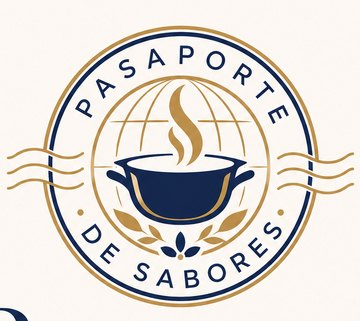
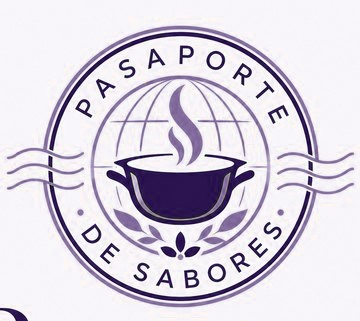
Add files via upload

diff --git a/pasaporte.html b/pasaporte.html
@@ -49,9 +49,9 @@
   .top-logo{height:38px;width:38px;border-radius:50%;object-fit:cover;background:#0A0812;border:1.5px solid rgba(139,92,246,.6);display:block;box-shadow:0 2px 8px rgba(0,0,0,.16)}
 
   /* ---------- Portada ---------- */
-  .cover{background:linear-gradient(160deg,#22335A 0%,var(--metal) 55%,#15213B 100%);border-radius:26px;padding:30px 24px 32px;color:#F2ECDD;text-align:center;box-shadow:var(--shadow);position:relative;overflow:hidden;margin-top:6px}
+  .cover{background:linear-gradient(160deg,#2E1C55 0%,var(--metal) 55%,#180F2E 100%);border-radius:26px;padding:30px 24px 32px;color:#F5F3FA;text-align:center;box-shadow:var(--shadow);position:relative;overflow:hidden;margin-top:6px}
   .cover::before{content:"";position:absolute;inset:10px;border:1.5px solid rgba(139,92,246,.5);border-radius:20px;pointer-events:none}
-  .cover-logo{width:168px;height:168px;max-width:60%;aspect-ratio:1/1;border-radius:50%;object-fit:cover;background:#0A0812;display:block;margin:0 auto 18px;border:3px solid rgba(139,92,246,.75);box-shadow:0 10px 30px rgba(0,0,0,.32),inset 0 0 0 5px #FFFDF7}
+  .cover-logo{width:168px;height:168px;max-width:60%;aspect-ratio:1/1;border-radius:50%;object-fit:cover;background:#0A0812;display:block;margin:0 auto 18px;border:3px solid rgba(139,92,246,.75);box-shadow:0 10px 30px rgba(0,0,0,.32),inset 0 0 0 5px #EDE7FA}
   .cover h1{font-family:'Inter Tight',sans-serif;font-size:clamp(26px,7vw,34px);letter-spacing:-.02em;line-height:1.06}
   .cover .motto{font-family:'Fraunces',serif;font-style:italic;font-size:15.5px;color:#C4B5E8;margin-top:12px;line-height:1.5}
   .cover .season{display:inline-block;margin-top:16px;font-size:11.5px;letter-spacing:.14em;text-transform:uppercase;color:#B8A87E;border:1px solid rgba(139,92,246,.5);border-radius:999px;padding:7px 14px}
@@ -72,7 +72,7 @@
   .how h2{font-family:'Inter Tight',sans-serif;font-size:17px;margin-bottom:12px}
   .how ol{list-style:none}
   .how li{display:flex;gap:12px;padding:9px 0;font-size:14px;line-height:1.5;color:#C7C2DC}
-  .how .n{flex:0 0 26px;height:26px;border-radius:50%;background:var(--metal);color:#F2ECDD;display:inline-flex;align-items:center;justify-content:center;font-weight:700;font-size:12.5px}
+  .how .n{flex:0 0 26px;height:26px;border-radius:50%;background:var(--metal);color:#F5F3FA;display:inline-flex;align-items:center;justify-content:center;font-weight:700;font-size:12.5px}
 
   /* ---------- Formularios ---------- */
   .form-card{background:var(--card);border:1px solid var(--hairline);border-radius:22px;padding:24px;box-shadow:var(--shadow);margin-top:10px}
@@ -89,7 +89,7 @@
   .err.show{display:block}
 
   /* ---------- Pasaporte ---------- */
-  .pass-head{background:linear-gradient(160deg,#22335A,var(--metal));border-radius:22px;padding:20px;color:#F2ECDD;box-shadow:var(--shadow);margin-top:6px}
+  .pass-head{background:linear-gradient(160deg,#2E1C55,var(--metal));border-radius:22px;padding:20px;color:#F5F3FA;box-shadow:var(--shadow);margin-top:6px}
   .pass-head .who{display:flex;justify-content:space-between;align-items:center;gap:10px}
   .pass-head .name{font-family:'Inter Tight',sans-serif;font-size:19px;letter-spacing:-.01em}
   .pass-head .city{font-size:12.5px;color:#C0B7DC;margin-top:2px}
@@ -97,7 +97,7 @@
   .prog-wrap{margin-top:16px}
   .prog-top{display:flex;justify-content:space-between;font-size:12.5px;color:#C4B5E8;margin-bottom:7px}
   .prog{height:10px;background:rgba(255,255,255,.18);border-radius:999px;overflow:hidden}
-  .prog-fill{height:100%;background:linear-gradient(90deg,var(--gold),#D2B279);border-radius:999px;transition:width .6s var(--ease)}
+  .prog-fill{height:100%;background:linear-gradient(90deg,var(--gold),#C9A9FF);border-radius:999px;transition:width .6s var(--ease)}
   .grid{display:grid;grid-template-columns:1fr 1fr;gap:12px;margin-top:16px}
   .country{background:var(--card);border:1px solid var(--hairline);border-radius:18px;padding:14px 12px;text-align:center;cursor:pointer;box-shadow:var(--shadow);border-bottom:3px solid var(--hairline);transition:transform .15s var(--ease)}
   .country:active{transform:scale(.97)}
@@ -139,7 +139,7 @@
   .steps{list-style:none}
   .steps li{display:flex;gap:12px;padding:11px 0;border-bottom:1px solid var(--hairline)}
   .steps li:last-child{border-bottom:0}
-  .stp{flex:0 0 27px;height:27px;border-radius:50%;background:var(--metal);color:#F2ECDD;display:inline-flex;align-items:center;justify-content:center;font-weight:700;font-size:13px}
+  .stp{flex:0 0 27px;height:27px;border-radius:50%;background:var(--metal);color:#F5F3FA;display:inline-flex;align-items:center;justify-content:center;font-weight:700;font-size:13px}
   .steps p{font-size:14.5px;line-height:1.6;padding-top:2px}
   .tipbox{background:rgba(139,92,246,.14);border:1px solid rgba(196,167,255,.22);border-radius:15px;padding:14px 16px;margin-top:13px}
   .tipbox .t{font-weight:700;font-size:13px;color:var(--gold-text);margin-bottom:4px}
@@ -161,7 +161,7 @@
   /* ---------- Overlay sello ---------- */
   .stamp-ov{position:fixed;inset:0;background:rgba(0,0,0,.82);display:none;align-items:center;justify-content:center;z-index:70;padding:20px;overflow:auto}
   .stamp-ov.open{display:flex}
-  .stamp-box{text-align:center;color:#F2ECDD;max-width:400px;width:100%}
+  .stamp-box{text-align:center;color:#F5F3FA;max-width:400px;width:100%}
   .shot-wrap{position:relative;width:230px;margin:0 auto;animation:stampIn .55s var(--ease)}
   .shot-wrap img{width:100%;aspect-ratio:1/1;object-fit:cover;border-radius:20px;display:block;box-shadow:0 12px 34px rgba(0,0,0,.4)}
   .shot-wrap svg{position:absolute;right:-16px;bottom:-16px;width:104px;height:104px}
@@ -190,9 +190,9 @@
   .rw h3{font-size:15px}
   .rw p{font-size:12.5px;color:var(--stone);margin-top:3px;line-height:1.45}
   .rw.locked{opacity:.62}
-  .gift{background:linear-gradient(160deg,#22335A,#15213B);border-radius:22px;padding:26px 22px;color:#F2ECDD;text-align:center;box-shadow:var(--shadow);margin-top:10px;position:relative;overflow:hidden}
+  .gift{background:linear-gradient(160deg,#2E1C55,#180F2E);border-radius:22px;padding:26px 22px;color:#F5F3FA;text-align:center;box-shadow:var(--shadow);margin-top:10px;position:relative;overflow:hidden}
   .gift::before{content:"";position:absolute;inset:9px;border:1.5px solid rgba(139,92,246,.45);border-radius:16px;pointer-events:none}
-  .gift img{width:120px;height:120px;border-radius:50%;object-fit:cover;background:#0A0812;border:3px solid rgba(139,92,246,.7);margin:0 auto 14px;display:block;box-shadow:inset 0 0 0 4px #FFFDF7}
+  .gift img{width:120px;height:120px;border-radius:50%;object-fit:cover;background:#0A0812;border:3px solid rgba(139,92,246,.7);margin:0 auto 14px;display:block;box-shadow:inset 0 0 0 4px #EDE7FA}
   .gift h2{font-family:'Inter Tight',sans-serif;font-size:22px;letter-spacing:-.02em}
   .gift p{font-size:14px;color:#C0B7DC;margin-top:10px;line-height:1.6}
   .gift .prog{margin-top:16px;background:rgba(255,255,255,.18)}
@@ -218,7 +218,7 @@
   .loading{display:flex;align-items:center;justify-content:center;gap:10px;padding:60px 0;color:var(--stone);font-size:14px}
   .spin{width:20px;height:20px;border:2.5px solid var(--hairline);border-top-color:var(--gold);border-radius:50%;animation:sp 1s linear infinite}
   @keyframes sp{to{transform:rotate(360deg)}}
-  .toast{position:fixed;bottom:22px;left:50%;transform:translateX(-50%);background:var(--metal);color:#F2ECDD;border-radius:999px;padding:12px 22px;font-size:13.5px;font-weight:600;z-index:90;display:none;max-width:88%;text-align:center}
+  .toast{position:fixed;bottom:22px;left:50%;transform:translateX(-50%);background:var(--metal);color:#F5F3FA;border-radius:999px;padding:12px 22px;font-size:13.5px;font-weight:600;z-index:90;display:none;max-width:88%;text-align:center}
   .toast.show{display:block}
   .legal-foot{margin-top:24px;text-align:center;font-size:12px;color:#8E88A6;line-height:1.6}
   .legal-foot a{color:var(--gold-text)}
@@ -416,11 +416,11 @@
       <svg viewBox="0 0 200 200" fill="none" id="stampSvg"></svg>
       <svg class="stamp-hand" viewBox="0 0 120 120" fill="none" aria-hidden="true">
         <!-- Mango del sello -->
-        <rect x="49" y="6" width="22" height="30" rx="7" fill="#7A2E3B"/>
-        <rect x="41" y="30" width="38" height="15" rx="6" fill="#B08D4F"/>
-        <rect x="52" y="43" width="16" height="20" fill="#8A672B"/>
+        <rect x="49" y="6" width="22" height="30" rx="7" fill="#7A2E5E"/>
+        <rect x="41" y="30" width="38" height="15" rx="6" fill="#9B6BF5"/>
+        <rect x="52" y="43" width="16" height="20" fill="#6D28D9"/>
         <!-- Base del sello -->
-        <rect x="36" y="60" width="48" height="16" rx="5" fill="#1B2A4A"/>
+        <rect x="36" y="60" width="48" height="16" rx="5" fill="#241640"/>
         <!-- Mano que sujeta -->
         <path d="M30 66c-6 0-11 5-11 11v10c0 12 10 22 23 22h20c12 0 21-9 21-21V70c0-4-3-7-7-7s-7 3-7 7v-3c0-4-3-7-7-7s-7 3-7 7v-1c0-4-3-7-7-7s-7 3-7 7v2c0-4-3-8-7-8Z" fill="#E8C9A6"/>
         <path d="M30 66c-6 0-11 5-11 11v10c0 12 10 22 23 22h20c12 0 21-9 21-21V70" stroke="#C9A483" stroke-width="2" fill="none"/>
@@ -429,7 +429,7 @@
     <h3 id="stampTitle">&iexcl;Sello estampado!</h3>
     <p id="stampSub"></p>
     <button class="btn btn-gold" id="stampOk" type="button">Continuar mi viaje</button>
-    <button class="btn btn-line" id="stampShare" type="button" style="margin-top:9px;background:transparent;color:#F2ECDD;border-color:rgba(255,255,255,.4)">Compartir mi foto</button>
+    <button class="btn btn-line" id="stampShare" type="button" style="margin-top:9px;background:transparent;color:#F5F3FA;border-color:rgba(255,255,255,.4)">Compartir mi foto</button>
   </div>
 </div>
 
@@ -466,7 +466,7 @@ const COUNTRIES = [
    ings:[["Harina de maíz","3 tazas"],["Agua tibia","2 tazas y media"],["Queso que derrita, rallado","2 tazas"],["Frijoles molidos refritos","1 taza"],["Repollo rallado","2 tazas"],["Zanahoria rallada","1 pieza"],["Vinagre blanco","media taza"],["Orégano","1 cdta"],["Sal","al gusto"]],
    steps:["Prepara el curtido: mezcla repollo, zanahoria, vinagre, orégano y sal; deja reposar mientras cocinas (mejor si es desde la víspera).","Mezcla la harina con agua y sal hasta lograr una masa manejable.","Toma una bola de masa, haz un hueco, rellena con queso y frijoles, y cierra con cuidado.","Aplana con las palmas humedecidas hasta formar una tortilla gruesa.","Cocina en sartén o comal a fuego medio, 4 a 5 minutos por lado, hasta dorar.","Sirve calientes con el curtido encima."],
    tip:"La temperatura constante del sartén es clave: si el calor sube y baja, la pupusa se abre. Un fondo grueso mantiene el punto." },
- { id:"hn", img:"foto-pollo-tajadas.jpg", co:"Honduras", mono:"HN", color:"#2E6FA3", dish:"Pollo con tajadas", stamp:"Sazón Catracha",
+ { id:"hn", img:"foto-pollo-tajadas.jpg", co:"Honduras", mono:"HN", color:"#7C5BD9", dish:"Pollo con tajadas", stamp:"Sazón Catracha",
    time:"45 min", serv:"4 porciones", diff:"Media",
    ings:[["Piezas de pollo","8 piezas"],["Plátanos verdes","3 piezas"],["Repollo rallado","2 tazas"],["Jitomate","2 piezas"],["Limón","1 pieza"],["Ajo en polvo y comino","1 cdta de cada uno"],["Aceite para freír","el necesario"],["Sal","al gusto"]],
    steps:["Sazona el pollo con ajo, comino y sal; cocínalo hasta dorar por fuera y quedar suave por dentro.","Corta los plátanos verdes en tajadas largas y delgadas.","Fríe las tajadas hasta que estén doradas y crujientes; escúrrelas.","Prepara la ensalada: repollo, jitomate picado, limón y sal.","Sirve las tajadas como base, el pollo encima y corona con la ensalada fresca."],
@@ -756,7 +756,7 @@ $('cmYes').addEventListener('click', async ()=>{
 function showStamp(c, n, ph){
   $('stampShot').src = ph;
   $('stampSvg').innerHTML =
-    '<circle cx="100" cy="100" r="88" stroke="'+c.color+'" stroke-width="6" fill="#FFFDF7" fill-opacity=".93"/>'+
+    '<circle cx="100" cy="100" r="88" stroke="'+c.color+'" stroke-width="6" fill="#EDE7FA" fill-opacity=".93"/>'+
     '<circle cx="100" cy="100" r="73" stroke="'+c.color+'" stroke-width="2" fill="none" opacity=".55"/>'+
     '<text x="100" y="92" text-anchor="middle" font-family="Inter Tight,sans-serif" font-weight="800" font-size="30" fill="'+c.color+'">'+c.mono+'</text>'+
     '<text x="100" y="122" text-anchor="middle" font-family="Inter,sans-serif" font-weight="700" font-size="12" letter-spacing="1.2" fill="'+c.color+'">'+esc(c.stamp).toUpperCase()+'</text>';
@@ -853,18 +853,18 @@ async function buildProof(){
   const H=510+rows*(cw+64)+130;
   const cv=document.createElement('canvas'); cv.width=W; cv.height=H;
   const x=cv.getContext('2d');
-  x.fillStyle='#F6F0E2'; x.fillRect(0,0,W,H);
-  x.strokeStyle='#B08D4F'; x.lineWidth=6; x.strokeRect(26,26,W-52,H-52);
-  x.strokeStyle='#E4DCC8'; x.lineWidth=2; x.strokeRect(44,44,W-88,H-88);
+  x.fillStyle='#0A0812'; x.fillRect(0,0,W,H);
+  x.strokeStyle='#9B6BF5'; x.lineWidth=6; x.strokeRect(26,26,W-52,H-52);
+  x.strokeStyle='rgba(196,167,255,.30)'; x.lineWidth=2; x.strokeRect(44,44,W-88,H-88);
   try{ let lg; try{ lg=await loadImg('logo-pasaporte.jpeg'); }catch(_){ lg=await loadImg('logo-pasaporte.jpg'); } x.drawImage(lg, W/2-95, 70, 190, 190); }catch(e){}
   x.textAlign='center';
-  x.fillStyle='#1B2A4A'; x.font='800 54px "Inter Tight", sans-serif';
+  x.fillStyle='#F5F3FA'; x.font='800 54px "Inter Tight", sans-serif';
   x.fillText('Ruta completada', W/2, 322);
-  x.fillStyle='#5E6478'; x.font='500 30px Inter, sans-serif';
+  x.fillStyle='#A9A3C2'; x.font='500 30px Inter, sans-serif';
   x.fillText('Pasaporte de Sabores · '+ROUTE.name, W/2, 366);
-  x.fillStyle='#1B2A4A'; x.font='800 44px "Inter Tight", sans-serif';
+  x.fillStyle='#F5F3FA'; x.font='800 44px "Inter Tight", sans-serif';
   x.fillText(USER.name, W/2, 428);
-  if(lugar()){ x.fillStyle='#5E6478'; x.font='500 28px Inter, sans-serif'; x.fillText(lugar(), W/2, 466); }
+  if(lugar()){ x.fillStyle='#A9A3C2'; x.font='500 28px Inter, sans-serif'; x.fillText(lugar(), W/2, 466); }
 
   for(let i=0;i<CTS.length;i++){
     const c=CTS[i];
@@ -873,17 +873,17 @@ async function buildProof(){
     const ph=PHOTOS[sk(c)]||photoCacheGet(sk(c));
     x.fillStyle=c.color; x.fillRect(px,py,cw,cw);
     if(ph){ try{ const im=await loadImg(ph); x.drawImage(im,px,py,cw,cw); }catch(e){} }
-    x.strokeStyle='#1B2A4A'; x.lineWidth=3; x.strokeRect(px,py,cw,cw);
+    x.strokeStyle='rgba(196,167,255,.45)'; x.lineWidth=3; x.strokeRect(px,py,cw,cw);
     x.textAlign='center';
-    x.fillStyle='#1B2A4A'; x.font='700 24px Inter, sans-serif';
+    x.fillStyle='#F5F3FA'; x.font='700 24px Inter, sans-serif';
     x.fillText(c.co, px+cw/2, py+cw+32);
-    x.fillStyle='#8A672B'; x.font='600 19px Inter, sans-serif';
+    x.fillStyle='#C9A9FF'; x.font='600 19px Inter, sans-serif';
     x.fillText(c.stamp, px+cw/2, py+cw+56);
   }
   const base=510+rows*(cw+64)+40;
-  x.fillStyle='#5E6478'; x.font='500 26px Inter, sans-serif';
+  x.fillStyle='#6B6285'; x.font='500 26px Inter, sans-serif';
   x.fillText(new Date().toLocaleDateString('es-MX',{day:'numeric',month:'long',year:'numeric'}), W/2, base+30);
-  x.fillStyle='#8A672B'; x.font='700 26px Inter, sans-serif';
+  x.fillStyle='#6D28D9'; x.font='700 26px Inter, sans-serif';
   x.fillText('tomasflores.com/pasaporte', W/2, base+72);
   return cv.toDataURL('image/jpeg', 0.86);
 }
@@ -916,7 +916,7 @@ function confetti(big){
   if(window.matchMedia && window.matchMedia('(prefers-reduced-motion: reduce)').matches) return;
   const cv=$('confetti'); const ctx=cv.getContext('2d');
   cv.width=innerWidth; cv.height=innerHeight; cv.style.display='block';
-  const colors=['#B08D4F','#D2B279','#F2ECDD','#7A2E3B','#1B2A4A','#E8C46A','#2E6FA3','#1F7A33'];
+  const colors=['#9B6BF5','#C9A9FF','#F5F3FA','#7A2E5E','#241640','#C4B5E8','#7C5BD9','#1F7A33'];
   const W=cv.width, H=cv.height;
   const P=[];
   function make(x,y,vx,vy){
